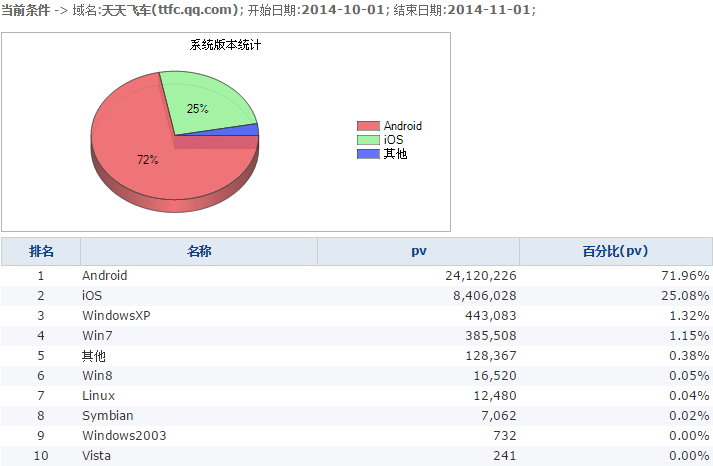
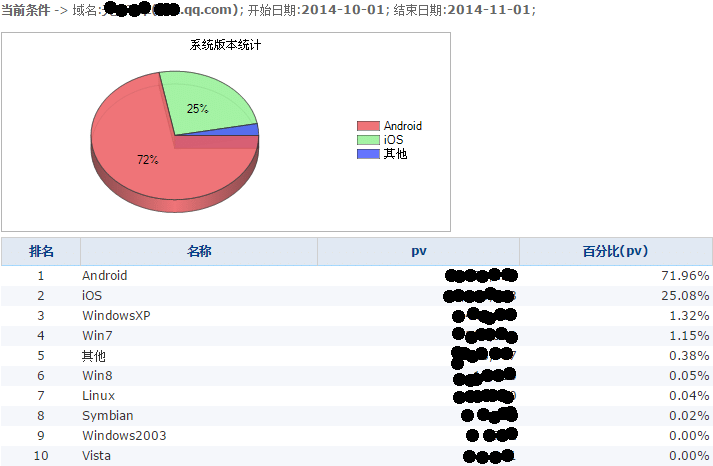
gg

Changed region(s): [[0.6171, 0.5708, 0.7405, 1.0], [0.1234, 0.0, 0.2777, 0.0601]]

diff --git a/2014/webp/index.html b/2014/webp/index.html
@@ -208,9 +208,9 @@
                         <img src="img/StatCounter-browser-CN-monthly-201407-201409-bar.jpg" alt="移动端浏览器市场份额201407-09"/>
                     </section>
                     <section>
-                        <h3>天天飞车官网上个月 - 操作系统市场份额</h3>
+                        <h3>腾讯游戏A官网上个月 - 操作系统市场份额</h3>
                         <p>Android系统的访问量超过<em class="hl">70%</em></p>
-                        <img src="img/ttfc-os-chart.png" alt="天天飞车操作系统市场份额201410"/>
+                        <img src="img/ttfc-os-chart.png" alt="腾讯游戏A操作系统市场份额201410"/>
                     </section>
                     <section>
                         <h2>说明什么问题？</h2>
